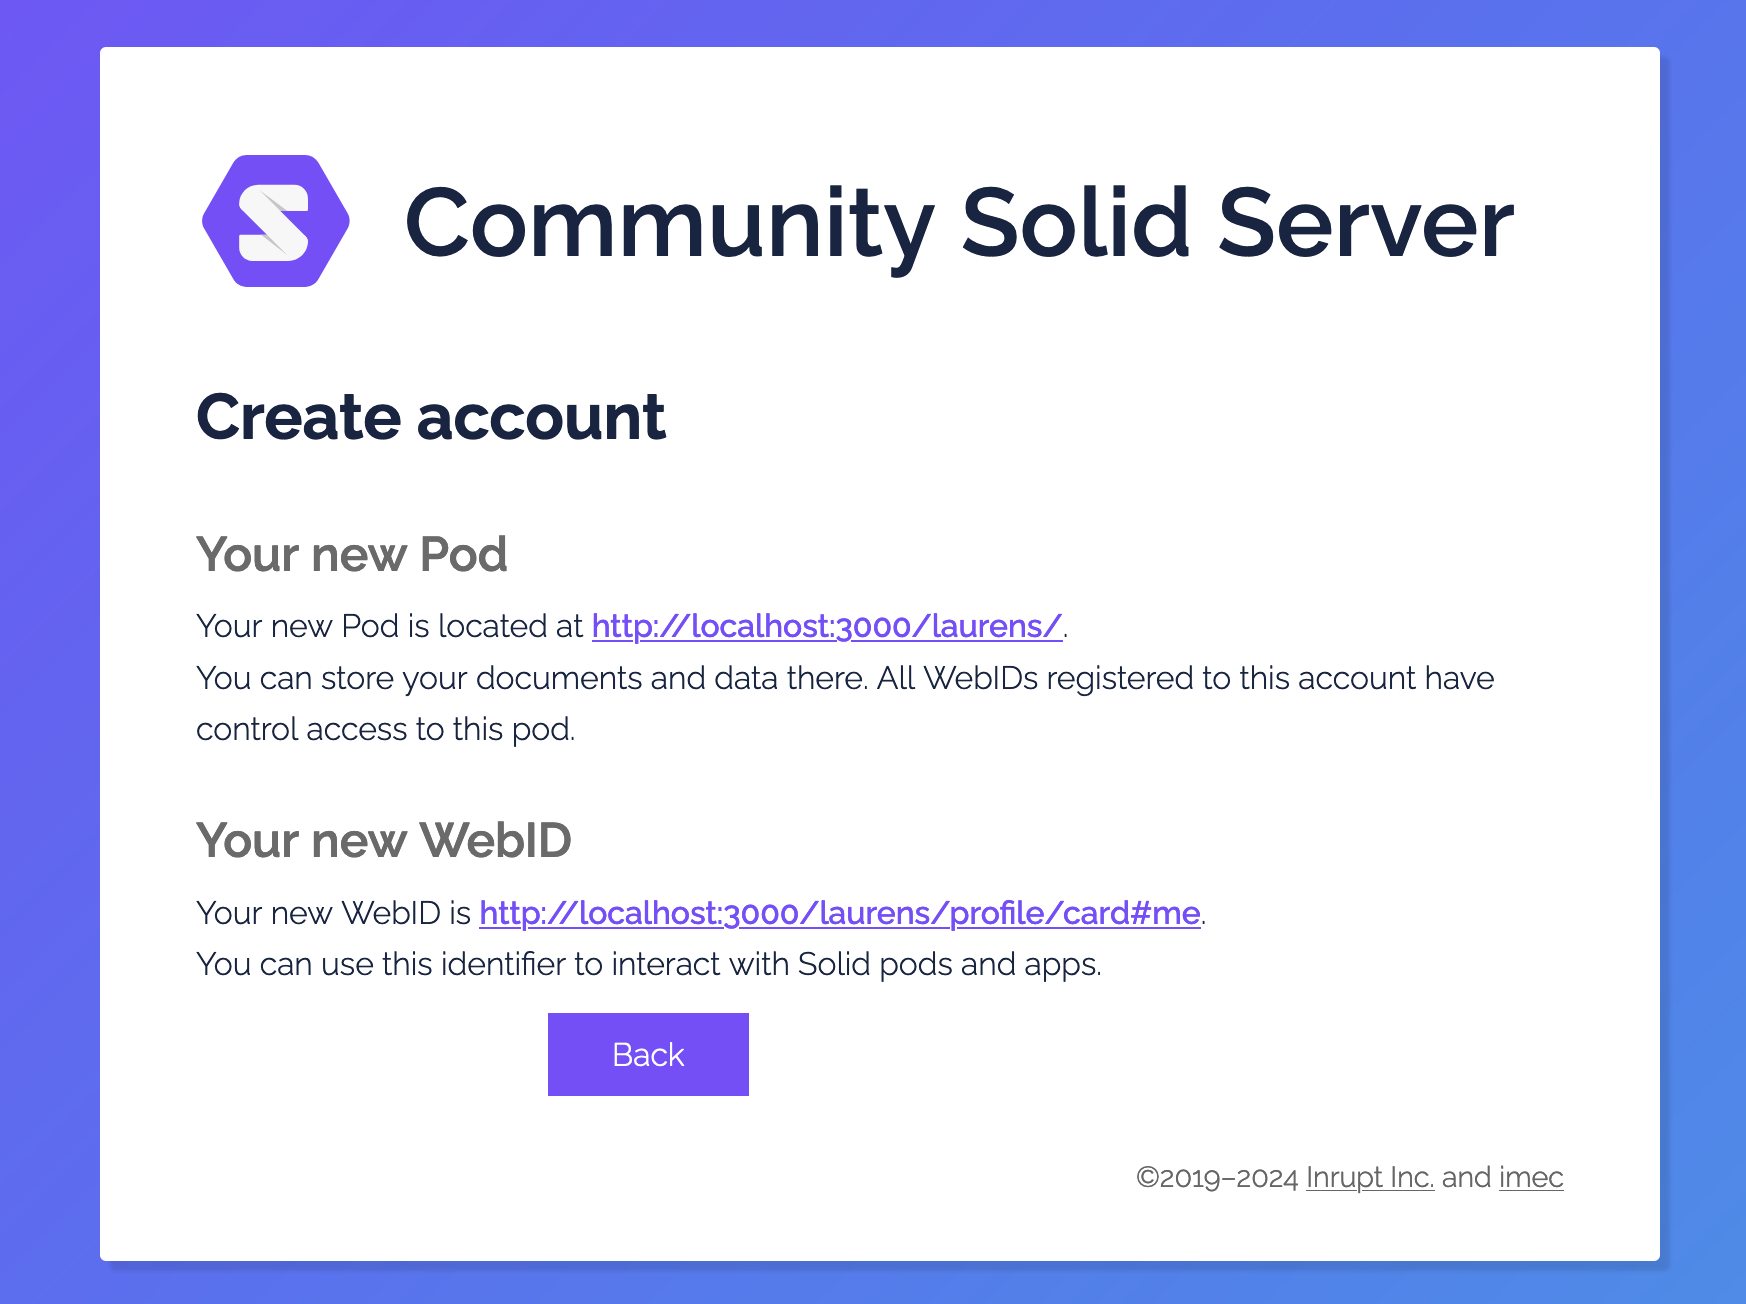
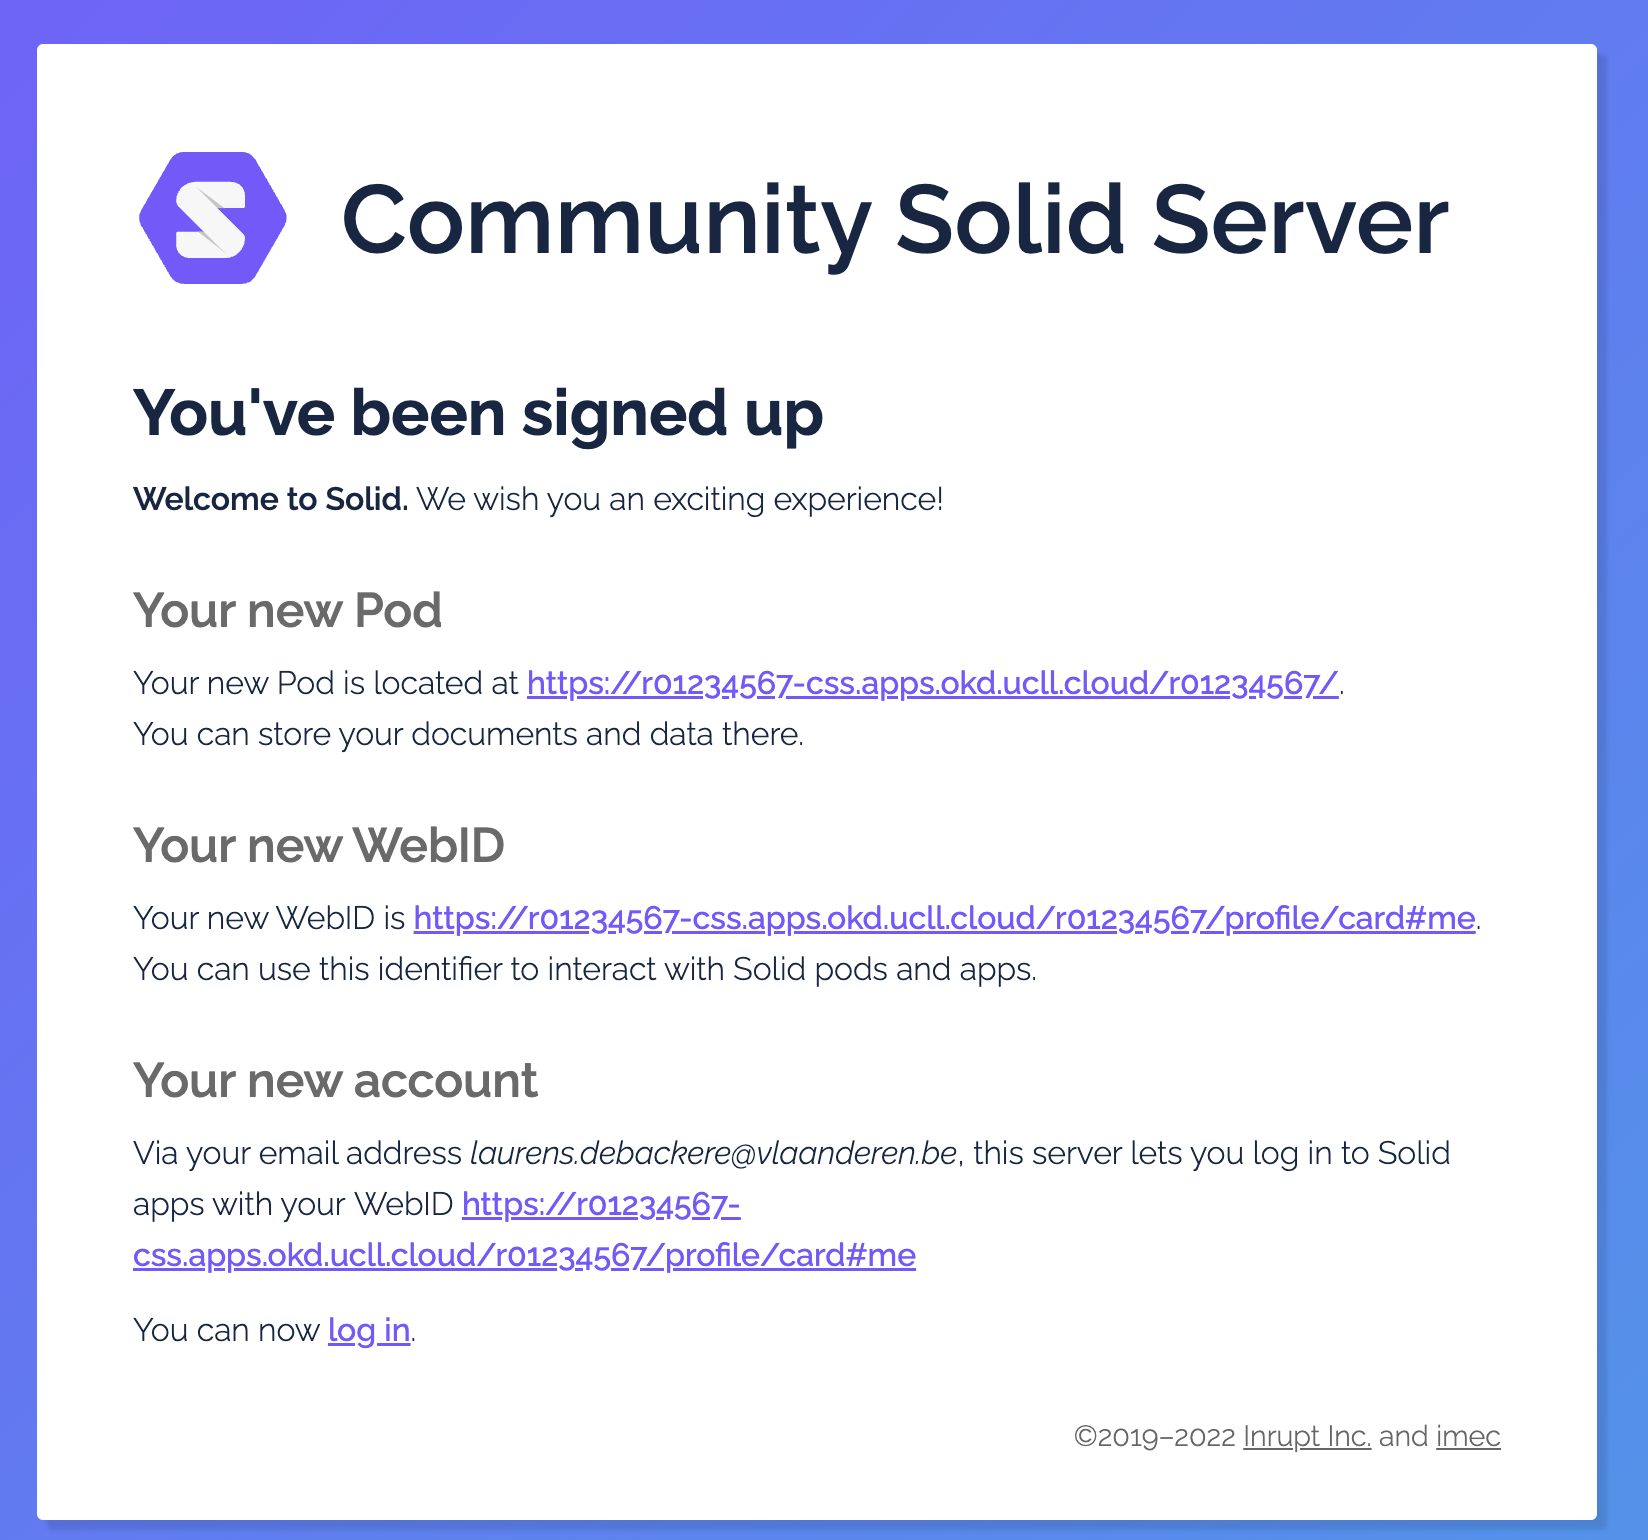
chore: update README

Changed region(s): [[0.0, 0.0307, 0.9903, 1.0], [0.0928, 0.8589, 0.2476, 0.8896], [0.7118, 0.4908, 0.7427, 0.5215]]

diff --git a/README.md b/README.md
@@ -131,7 +131,7 @@ WHERE {
 
 The Flemish government publishes several [base registries](https://basisregisters.vlaanderen.be/), to promote re-use of data and avoid double registrations. One of these base registries is the [buildings and address registry](https://www.vlaanderen.be/digitaal-vlaanderen/onze-oplossingen/gebouwen-en-adressenregister).
 
-The base registries are available through traditional [RESTful APIs](https://docs.basisregisters.vlaanderen.be/docs/api-documentation.html#tag/api-documentation.html) but follow a Linked Data standard defined by the Flemish OSLO initiative.
+The base registries are available through traditional [RESTful APIs](https://docs.basisregisters.vlaanderen.be/docs/api-documentation.html#tag/api-documentation.html) but follow a Linked Data standard defined by the [Flemish OSLO initiative](https://data.vlaanderen.be/).
 
 Following the principles of Linked Data, each building or address also has a unique URI associated with it. For example https://data.vlaanderen.be/doc/adres/3706808 is the URI associated with the address of Digitaal Vlaanderen in Ghent ("Koningin Maria-Hendrikaplein 70, 9000 Gent").
 
@@ -160,38 +160,35 @@ A basic graph pattern (BGP) in SPARQL is a set of triple patterns where you matc
 `?city rdfs:label "Gent"` will match any subject having a triple statement with predicate `rdfs:label` having the literal value `"Gent"`.
 
 
-
 Now, over to you:
 
 1. Can you modify the query above to find the URI of your home address (if you live in Flanders)? (**SIMPLE**)
 2. How many distinct cities in Flanders have a street named "Kerkstraat"? (**INTERMEDIATE**)
-3. Can you use your knowledge of SPARQL and Linked Data to figure out in which cities the political party "Groen" has a mayor in the last legislature? (**HARD**)
+3. The Flemish government also publishes data on [local politics as Linked Data](https://www.vlaanderen.be/agentschap-binnenlands-bestuur/blikvangers/lokale-besluiten-als-gelinkte-open-data). Can you use your knowledge of SPARQL and Linked Data to figure out in which cities the political party "Groen" has a mayor in the last legislature? (**HARD**) (Hint: See the [OSLO standard](https://data.vlaanderen.be/doc/applicatieprofiel/mandatendatabank/))
 
 ## 3. Getting started with Solid
 For the next part of our exercise we will be using the [Community Solid Server](https://github.com/CommunitySolidServer/CommunitySolidServer).
 
-In the VSCode devcontainer all necessary dependencies should have been installed already such that you should simply run the following command to get a working Solid server:
-```sh
-npx @solid/community-server -c @css:config/file.json -f data/
-```
+UCLL is offering you a hosted instance of the Community Solid server for the duration of this lab. The URL of this instance will follow the structure: `https://<<your student number>>-css.apps.okd.ucll.cloud/`.
+
+> [!IMPORTANT]  
+> This part of the lab session is graded, please use your provided Solid server instance for the next steps.
+
 ### Create an account, Pod and WebID
-In order to create an account with the Community Solid Server [click here](http://localhost:3000/.account/login/password/register/).
+In order to create an account with the Community Solid Server navigate to the URI of your CSS instance (e.g. [r01234567-css.apps.okd.ucll.cloud](https://r01234567-css.apps.okd.ucll.cloud/)). And click the "Sign up for an account" link. You should see the screen below.
 
-You should be presented with the screen below afterwards, where you can create a new Pod or link an existing WebID (should you have one).
+> [!IMPORTANT]  
+> When creating your new Pod, use your student number (e.g. r01234567) as the Pod name.
 
-![Overview after account creation](img/pod-overview.png)
+![Account creation screen](img/create-pod.png)
 
-Click the "Create pod" link in this overview. Choose a name for your Pod and select the checkmark "Use the WebID in the Pod and register it to your account." to get started quickly.
-
-![Create a Pod](img/create-pod.png)
-
-After succesful creation of your Pod and associated WebID you will be presented with the following overview.
+You should be presented with the screen below afterwards, indicating your newly created WebID and Pod URI.
 
 ![After Pod creation](img/after-pod-creation.png)
 
 After creating your Pod, check out your WebID by opening it in your web browser or fetching it with `curl`:
 
-`curl http://localhost:3000/example/profile/card`
+`curl https://<<your student number>>-css.apps.okd.ucll.cloud/<<your student number>>/profile/card`
 
 This will yield something like:
 ```turtle
@@ -200,22 +197,21 @@ This will yield something like:
 
 <>
     a foaf:PersonalProfileDocument;
-    foaf:maker <http://localhost:3000/laurens/profile/card#me>;
-    foaf:primaryTopic <http://localhost:3000/laurens/profile/card#me>.
+    foaf:maker <https://r01234567-css.apps.okd.ucll.cloud/r01234567/profile/card#me>;
+    foaf:primaryTopic <https://r01234567-css.apps.okd.ucll.cloud/r01234567/profile/card#me>.
 
-<http://localhost:3000/laurens/profile/card#me>
-    
-    solid:oidcIssuer <http://localhost:3000/>;
+<https://r01234567-css.apps.okd.ucll.cloud/r01234567/profile/card#me>
+    solid:oidcIssuer <https://r01234567-css.apps.okd.ucll.cloud/>;
     a foaf:Person.
 ```
 
-The most important triple in this document is `<http://localhost:3000/laurens/profile/card#me> solid:oidcIssuer <http://localhost:3000/>`, which links my WebID to the OIDC Identity Provider hosted by the Community Solid Server.
+The most important triple in this document is `<https://r01234567-css.apps.okd.ucll.cloud/r01234567/profile/card#me> solid:oidcIssuer <https://r01234567-css.apps.okd.ucll.cloud/>`, which links my WebID to the [OIDC Identity Provider](https://openid.net/specs/openid-connect-core-1_0.html) hosted by the Community Solid Server.
 
 ### Using a Pod browser to explore a Solid Pod
 
 Next, we'll use a Pod browser to explore the contents of our new Solid Pod. Penny is a great open-source Pod browser by Vincent Tunru (see [Gitlab](https://gitlab.com/vincenttunru/penny)).
 
-Go to https://penny.vincenttunru.com/ and type `http://localhost:3000` when asked for the URI of your Pod.
+Go to https://penny.vincenttunru.com/ and type `https://<<your student number>>-css.apps.okd.ucll.cloud/` when asked for the URI of your Pod.
 
 ![](img/penny-home.png)
 
@@ -249,12 +245,49 @@ Note that our WebID has two entries in the WAC access control list, one granting
 
 ACLs are the basic authorization mechanism in a Solid Pod, they can be used to grant specific access modes on one or more resources to a specific agent using their WebID.
 
+Now, ovr01234567er to you:
+1. Create a new resource at the root of your Solid Pod, and name it "answers". (**EASY**)
+2. Update the ACL for this resource, in order to make it publicly readable. (**MODERATE**) (Hint: check the ACLs of your WebID.)
+3. Update the resource to contain the answers of part 2 of this lab session. (**MODERATE**)
+
+In order to simplify things, you can use the following template for the third exercise.
+```turtle
+@prefix ex: <http://example.org/> .
+
+# Answers to Part 2: Querying the Semantic Web
+<#answers> a ex:LabExerciseAnswers ;
+    ex:exercise "UCLL Web Innovation for Good Lab" ;
+    ex:part "Part 2: Querying the Semantic Web" ;
+    ex:studentNumber "r0XXXXXXX" ;  # Replace with your student number
+    ex:hasAnswer [
+        a ex:ExerciseAnswer ;
+        ex:questionNumber "1" ;
+        ex:questionDescription "Modified query to find URI of home address in Flanders" ;
+        ex:foundAddressURI "https://data.vlaanderen.be/doc/adres/YOUR_ADDRESS_URI"  # Replace with your found address URI
+    ] ;
+    ex:hasAnswer [
+        a ex:ExerciseAnswer ;
+        ex:questionNumber "2" ;
+        ex:questionDescription "Number of distinct cities in Flanders with a street named 'Kerkstraat'" ;
+        ex:cityCount "XX"  # Replace with the count you found
+    ] ;
+    ex:hasAnswer [
+        a ex:ExerciseAnswer ;
+        ex:questionNumber "3" ;
+        ex:questionDescription "Cities where political party 'Groen' has a mayor in the last legislature" ;
+        ex:citiesWithGreenMayor "City1, City2, City3"  # Replace with the cities you found
+    ] .
+```
+
 ### Next steps
 Unfortunately, our time here today is limited. So developing a fully fledged application using Solid Pods would take us too far.
 
-However, if you're interested in building your own web application with Solid Pods, you can check out this [tutorial by Virginia Balseiro](https://virginiabalseiro.com/blogposts/tutorial-create-a-solid-to-do-app), co-Chair of the Solid Community Group at W3C.
+After this lab session, in the VSCode devcontainer all necessary dependencies should have been installed such that you can run your own Community Solid Server like so:
+```sh
+npx @solid/community-server -c @css:config/file.json -f data/
+```
 
-If you're interested in using Solid in other languages, check out https://solidproject.org/for-developers.
+If you're interested in using Solid in application development, check out https://docs.inrupt.com/developer-tools/javascript/client-libraries/tutorial/authenticate-browser/ (JS) and https://docs.inrupt.com/developer-tools/java/client-libraries/introduction/ (Java)
 
 ## Acknowledgements
 - [Comunica](https://comunica.dev)
